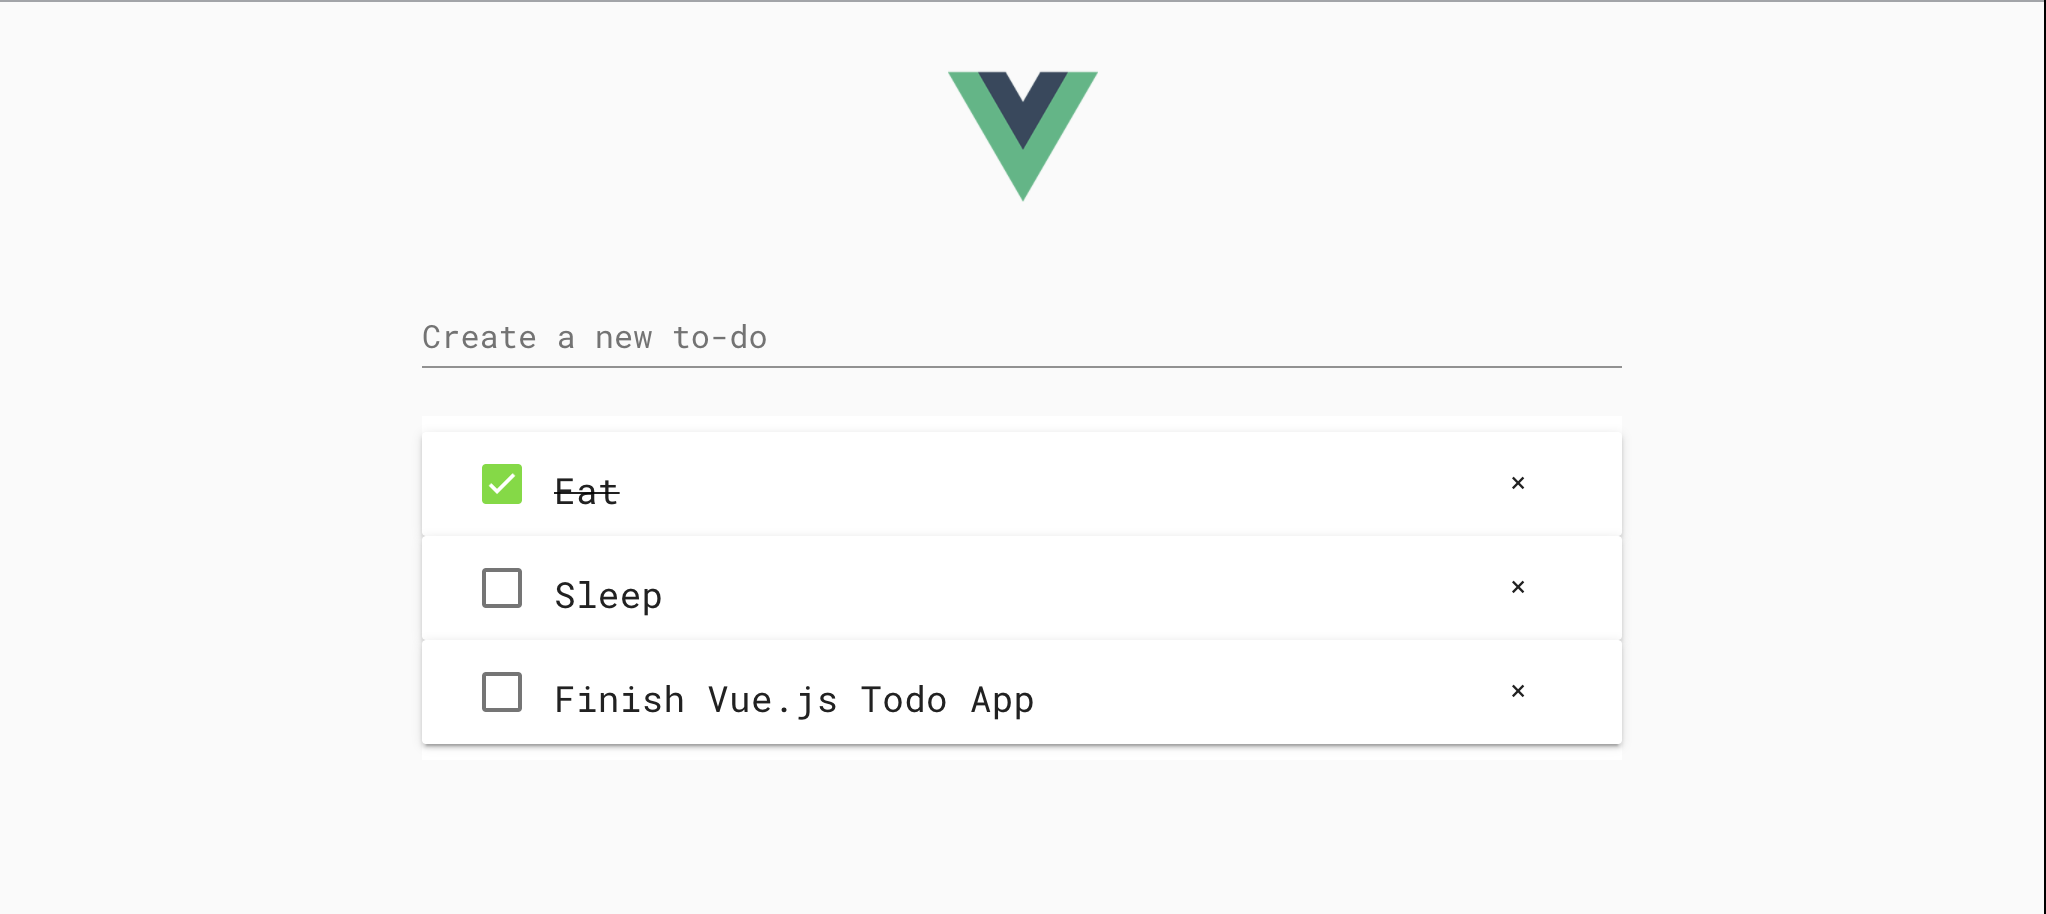
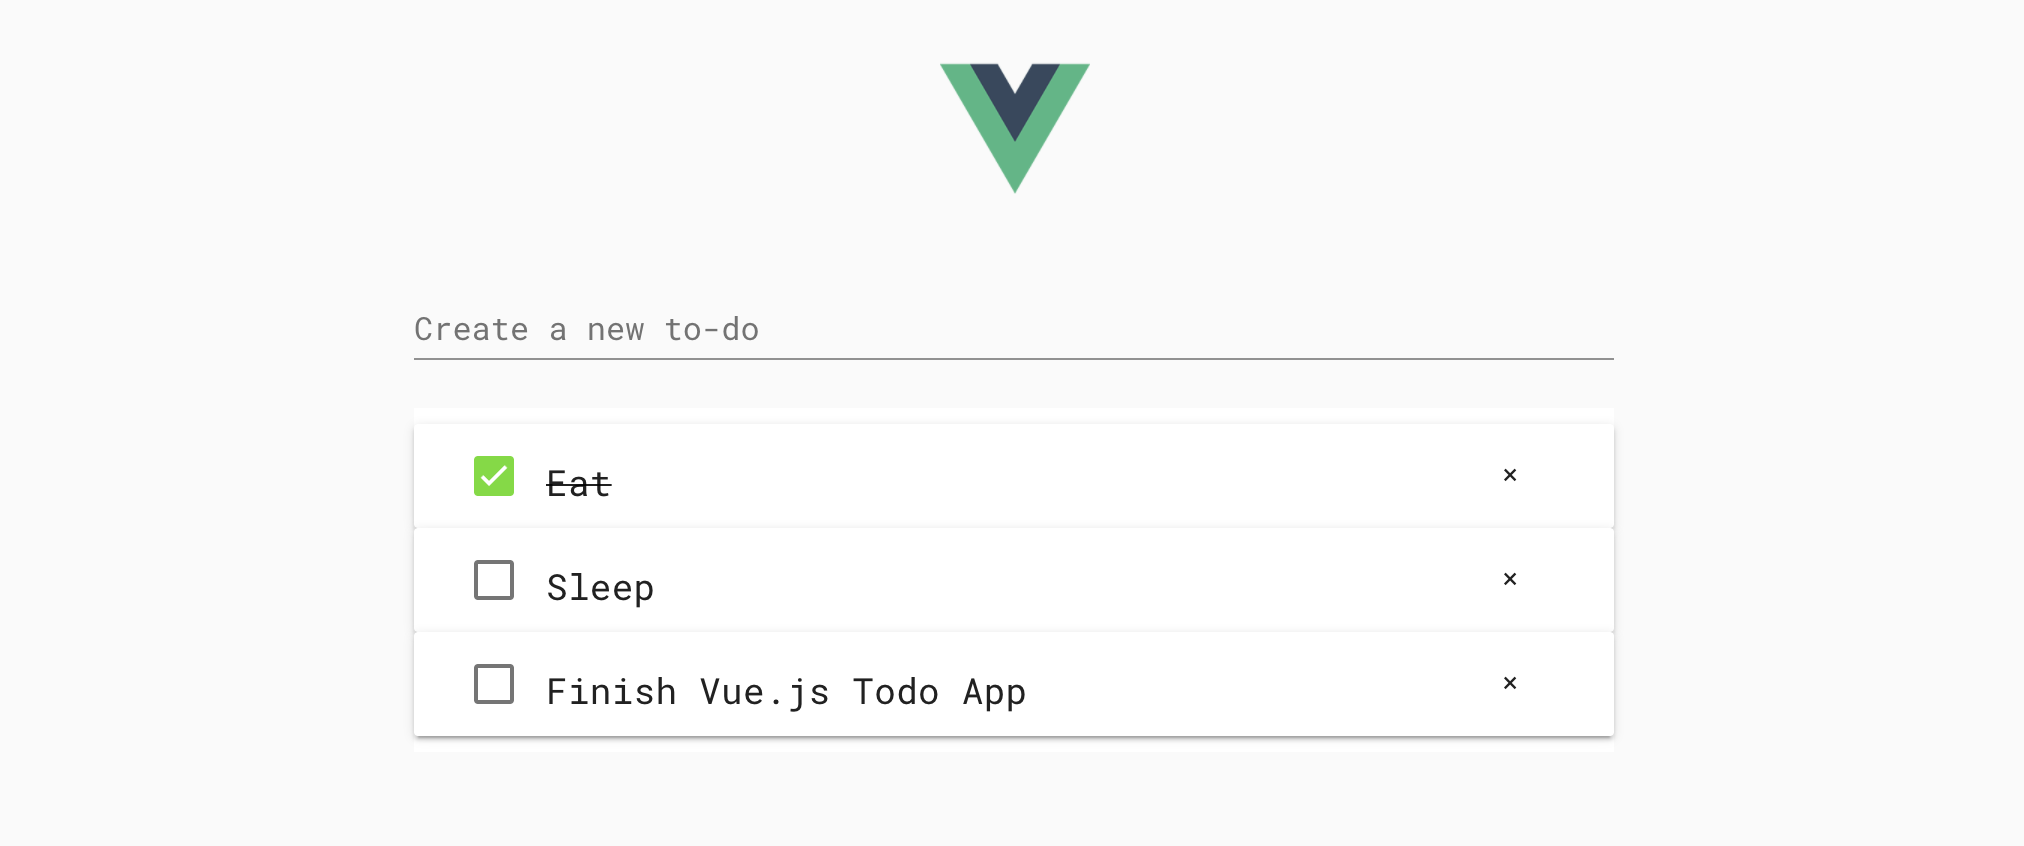
Updated README.md

diff --git a/README.md b/README.md
@@ -1,5 +1,5 @@
 # vue-todo
-<img src="public/screenshot.png" width="300">
+<img src="public/screenshot.png">
 
 ## Project setup
 ```
